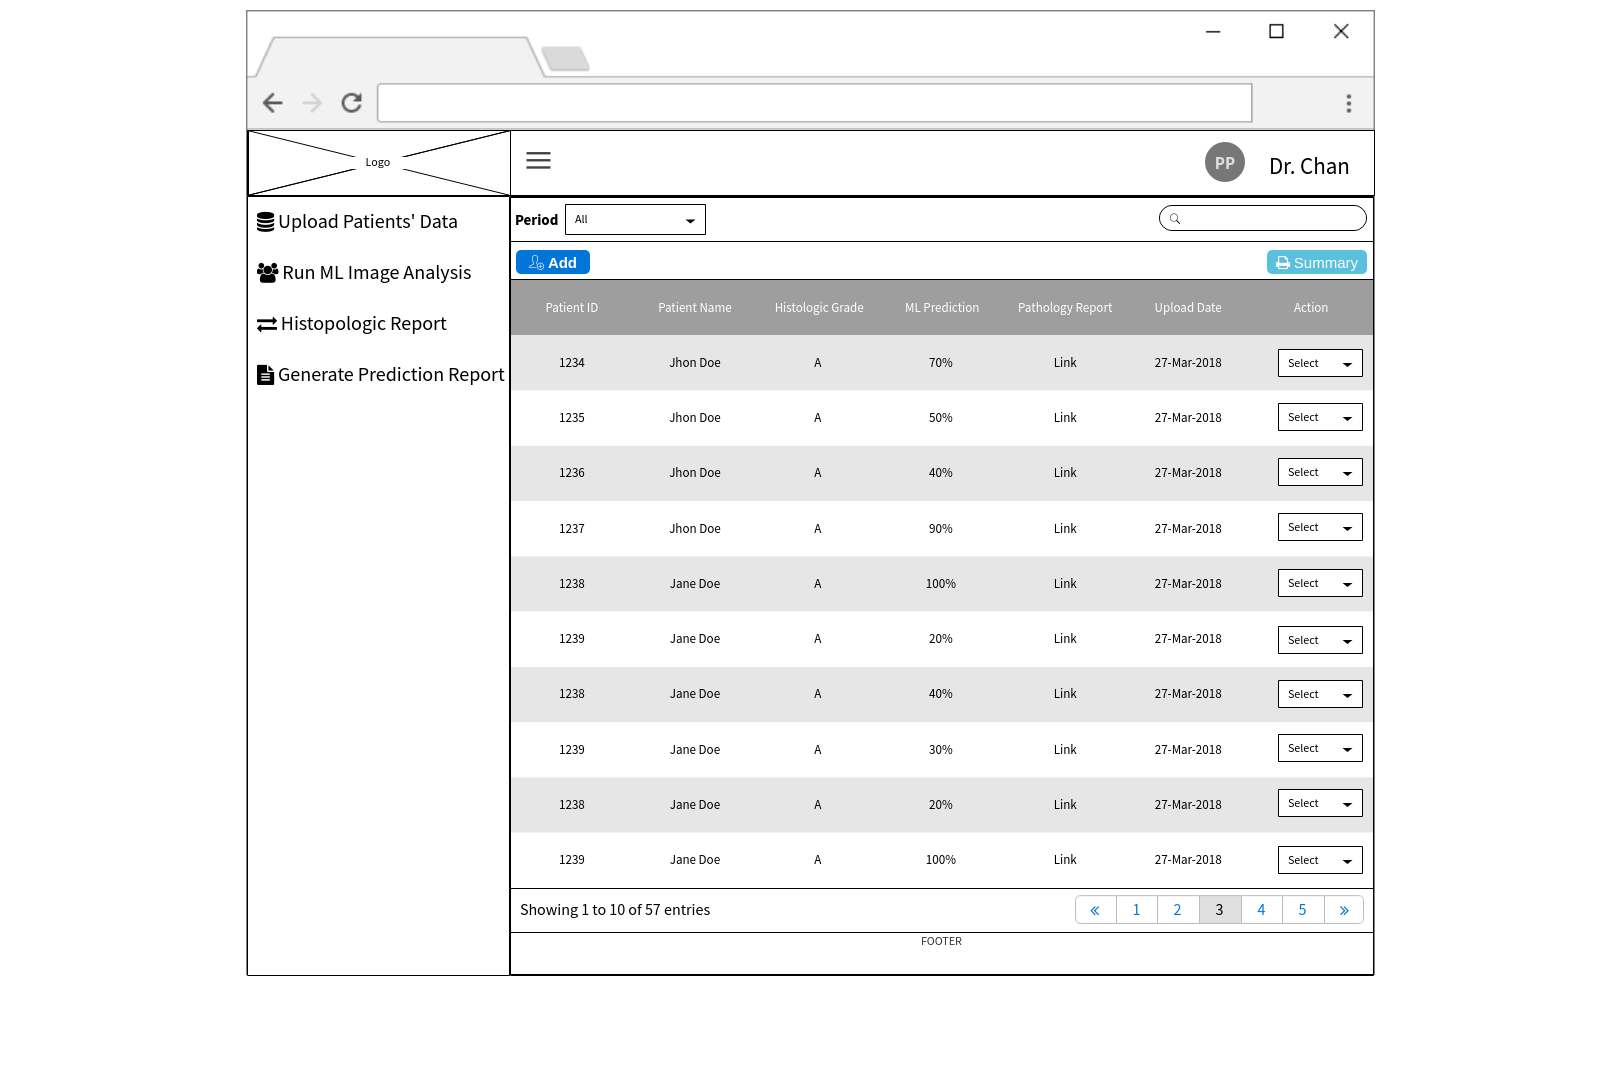
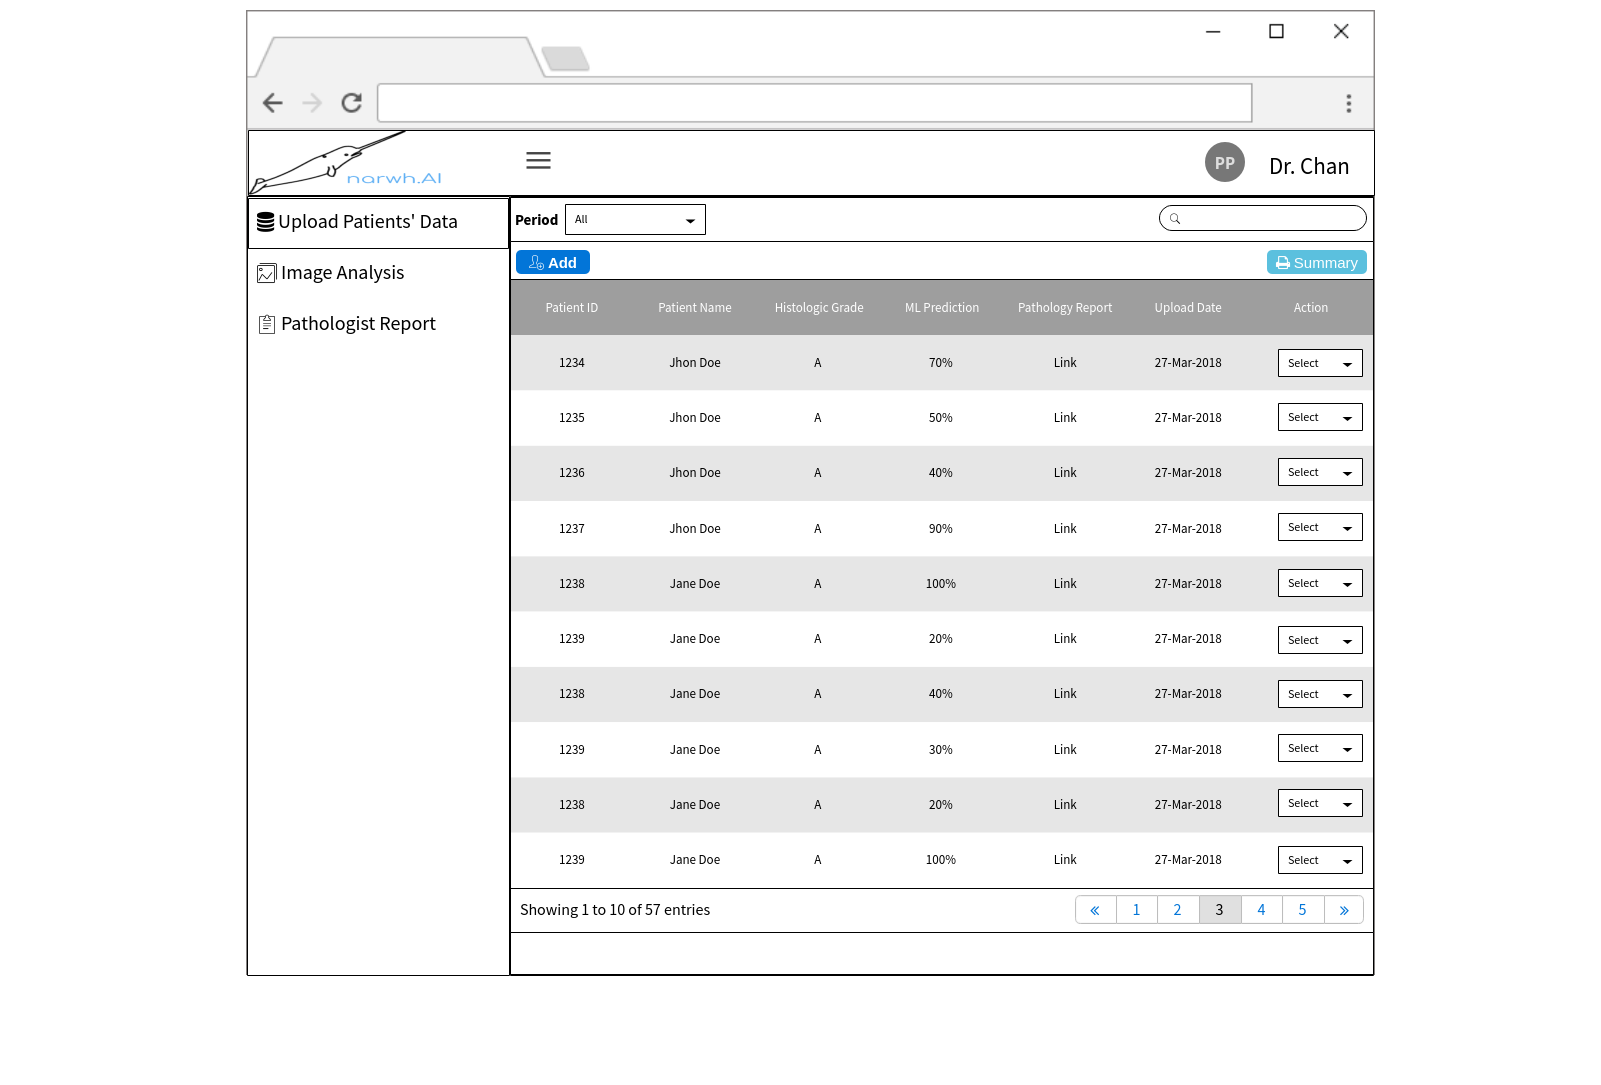
Fix Images

diff --git a/product_research/customerResearch.md b/product_research/customerResearch.md
@@ -8,13 +8,18 @@ Our solution is to develop a computer vision detection application that can anal
 
 ## Low Fidelity Mock ups
 
-### Metastatic Cancer Analysis DashBoard
+### Dashboard
+ 
+ ![Dashboard](./Doctor_Dashboard.png)
+
+### Image Analysis Page
+
+ ![Dashboard](./Image_Analysis.png)
+
+### Pathology Report Creation Page
 
  ![Dashboard](./Pathologist_Report.png)
 
-### Pathologist Patients' Data Dashboard
- 
- ![Dashboard](./Doctor_Dashboard.png)
 
 
 ## User Persona
